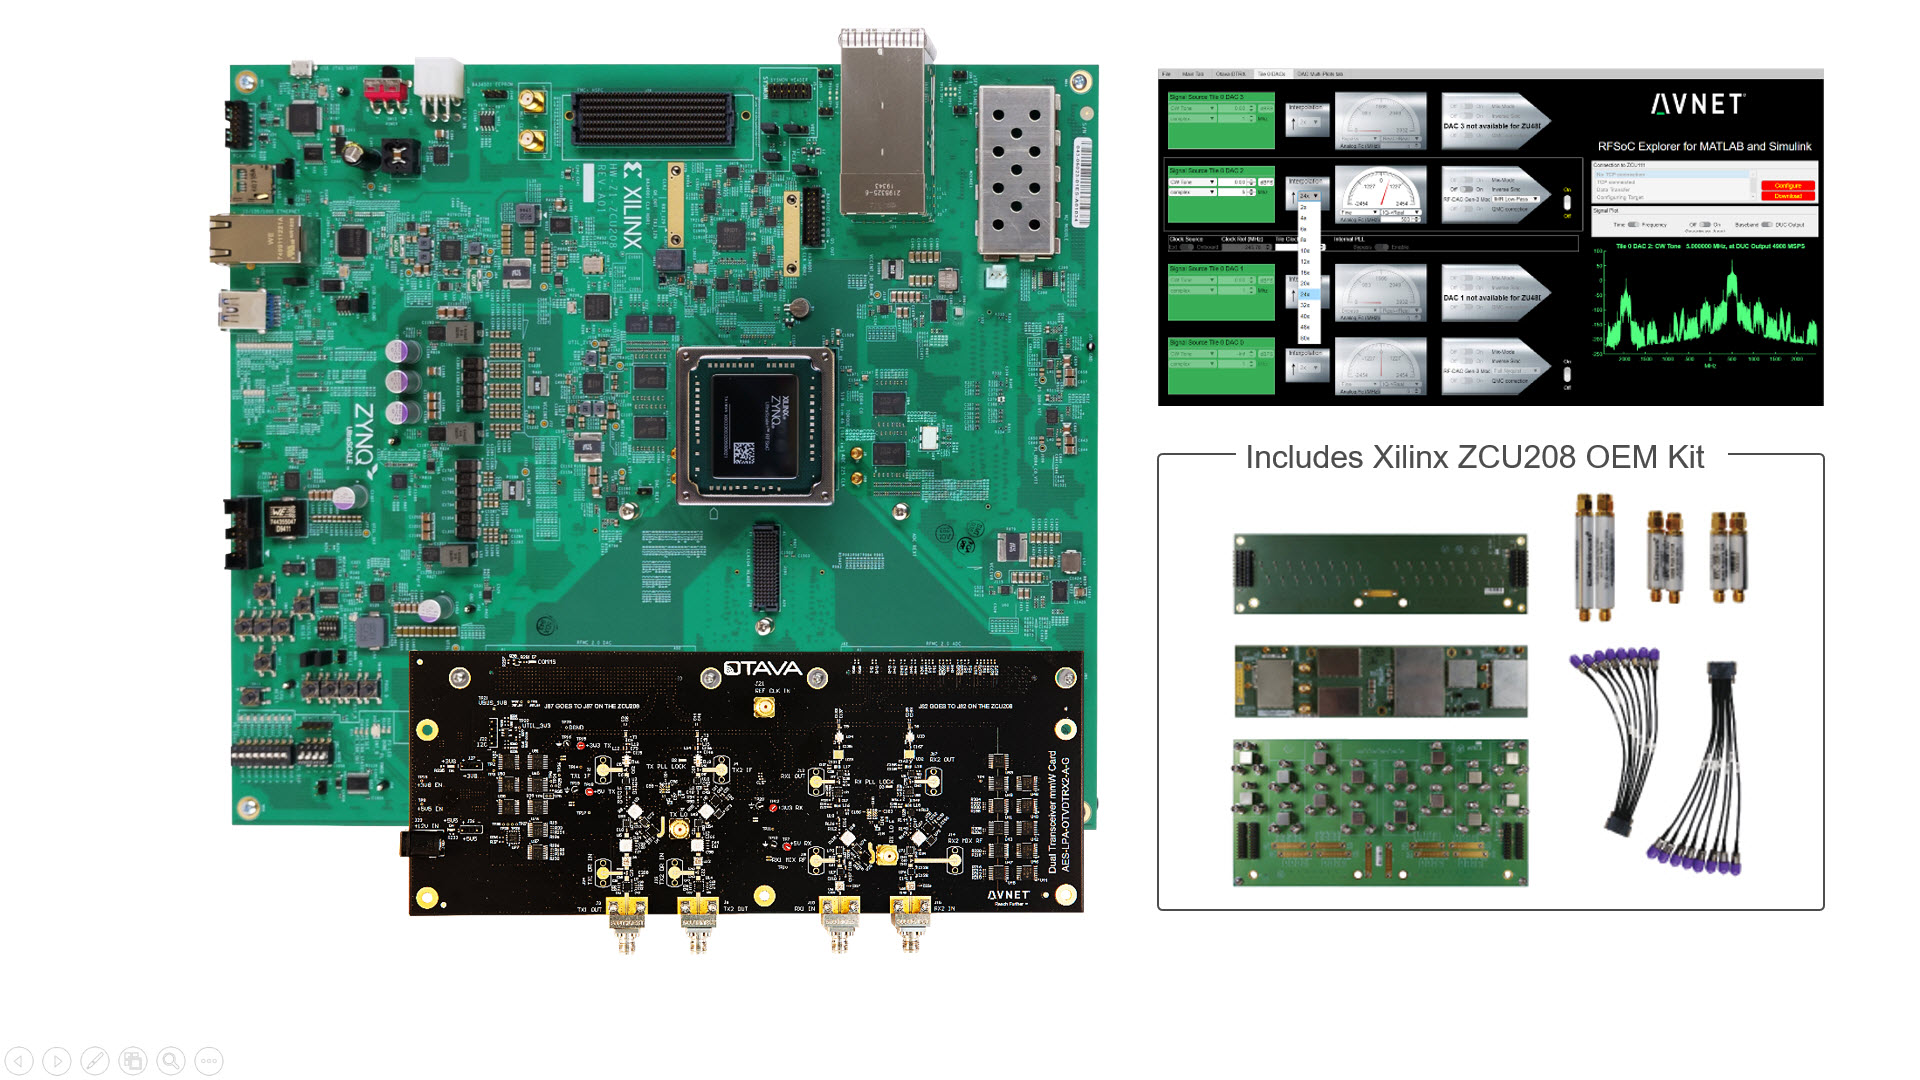
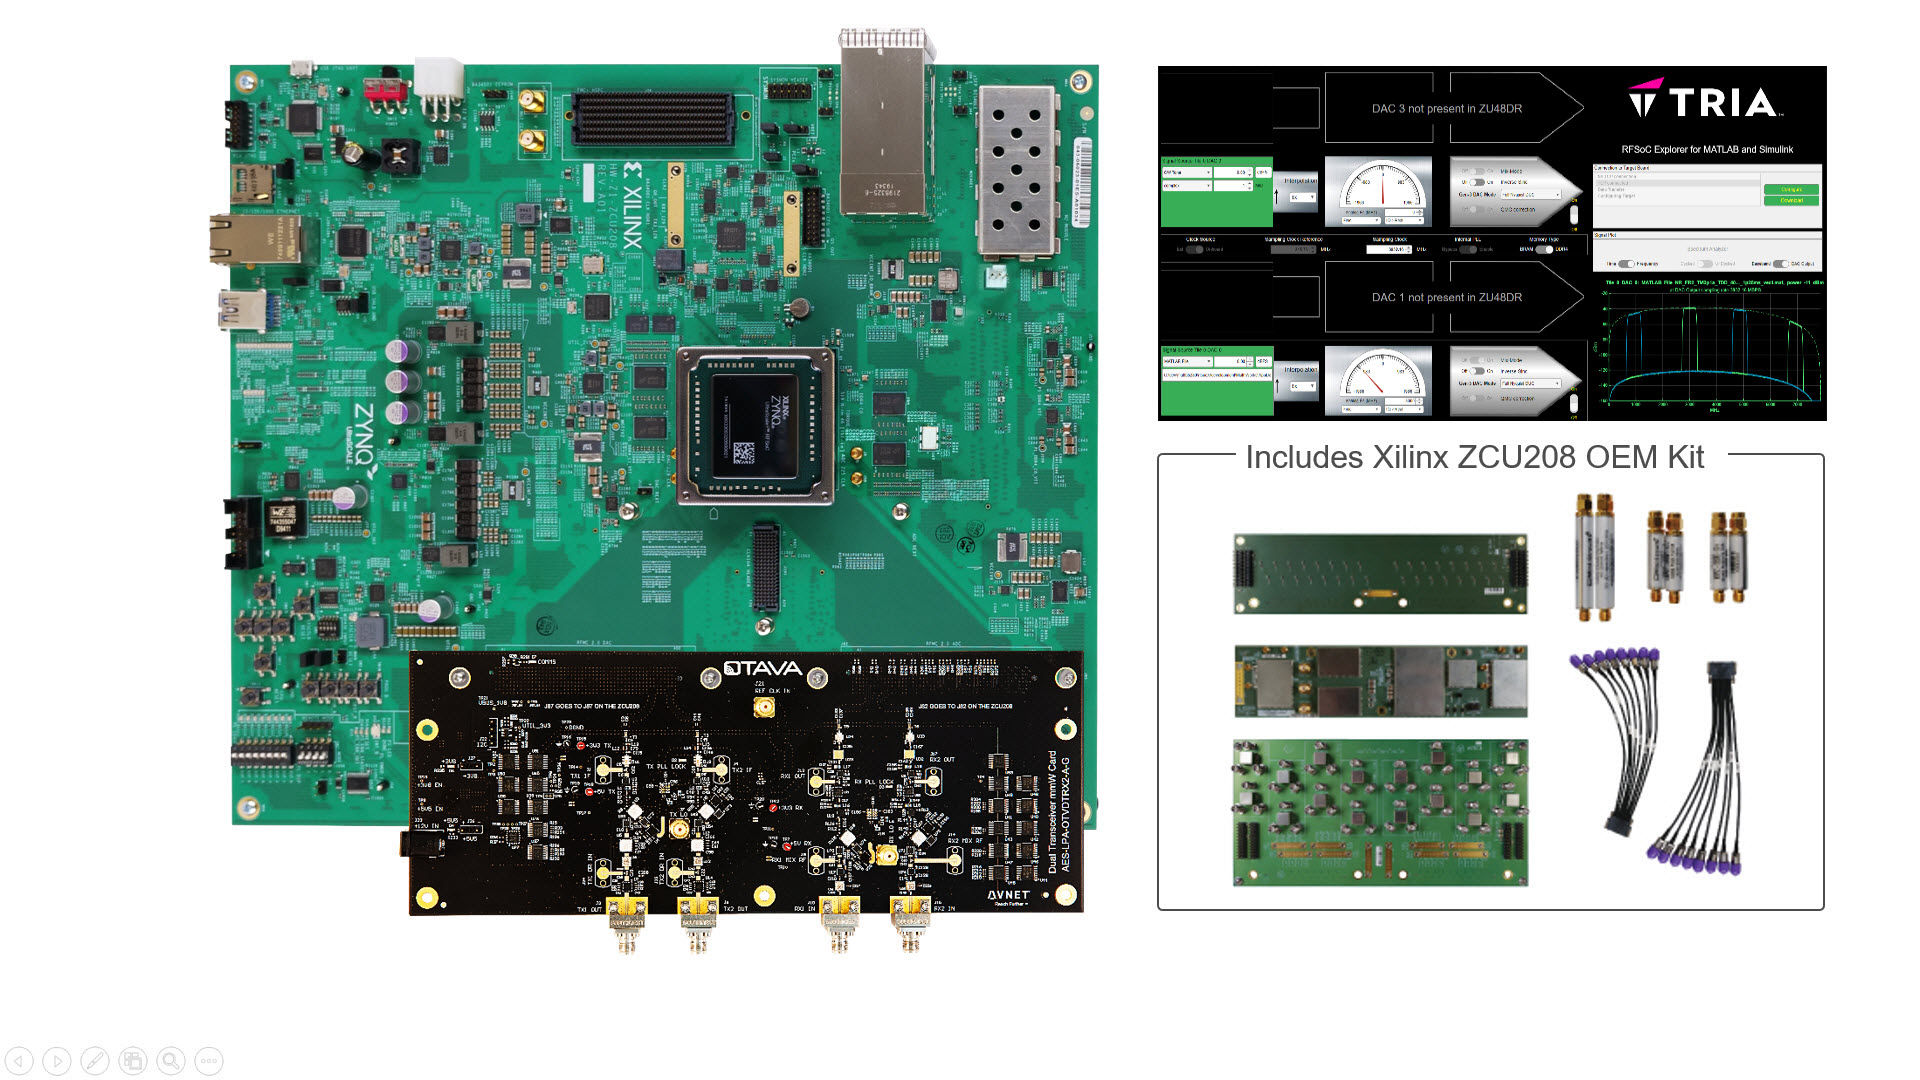
Images with Tria rebrand

Changed region(s): [[0.5938, 0.0611, 0.9688, 0.3972]]

diff --git a/docs/source/api_help.rst b/docs/source/api_help.rst
@@ -49,9 +49,8 @@ Get help on a specific API:
 
       Related API_function **ADC_program**
 
-
-     Support & Documentation
-
+    
+`Support & Documentation <https://www.mathworks.com/matlabcentral/fileexchange/73665-avnet-rfsoc-explorer>`_
 
 
 Main API help
@@ -165,8 +164,6 @@ Main API help
   
     More API examples are located in the /test folder.
  
-    `Support & Documentation <https://www.mathworks.com/matlabcentral/fileexchange/73665-avnet-rfsoc-explorer>`_
-
 
 Otava DTRX2 mmWave API Help
 -----------------------------------------
@@ -234,8 +231,6 @@ Otava DTRX2 mmWave API Help
             RX_IF_DSA_Ch1_Attenuation, parameter = RX I/F DSA Channel 1 Attenuation (dB), range 0 ... 32 dB of positive attenuation (- gain) in 1/2 dB step
             RX_RF_DSA_Ch2_Attenuation, parameter = RX RF DSA Channel 2 Attenuation (dB)
             RX_IF_DSA_Ch2_Attenuation, parameter = RX I/F DSA Channel 2 Attenuation (dB)
-
-        `Support & Documentation <https://www.mathworks.com/matlabcentral/fileexchange/73665-avnet-rfsoc-explorer>`_
 
 Fujikura 28GHz Phased Array Antenna Moduel (PAAM) API help
 -----------------------------------------

diff --git a/docs/source/system_setup.rst b/docs/source/system_setup.rst
@@ -189,14 +189,17 @@ Use this method when connecting the ZCU208 directly to your PC.
 Start RFSoC Explorer
 --------------------
 
-1. Open MATLAB, go to the APPS tab, and click the icon.
+1. Start application with the following API command: 
 
-.. image:: images_system_setup/rfsocX_app_start.png
-
-.. note:: Beginning in RFSoC Explorer v2.0, the app can also be started with the following API command: 
    ``RFSoC_Explorer('startup');``
 
 .. image:: images_system_setup/rfsocX_main_tab.jpg
+
+   Select "ZCU208 + Otava DTRX2 mmWave RF Front-end" from the board menu:
+
+.. image:: images_system_setup/rfsocX_board_menu.jpg
+
+.. note:: The board can be selected using the API  ``RFSoC_Explorer('startup','board_id',4);``
 
 2. On the Main tab, under "System", enter the IP address of the ZCU208. The default board addess is: **169.254.10.2**.
 

diff --git a/docs/source/mmw_kit_toc.rst b/docs/source/mmw_kit_toc.rst
@@ -1,4 +1,4 @@
-Getting Started with Avnet's Wideband mmWave Radio Dev Platform for RFSoC Gen-3
+Getting Started with Tria's Wideband mmWave Radio Dev Platform for RFSoC Gen-3
 ===========================================================================
 .. toctree::
    :maxdepth: 2
